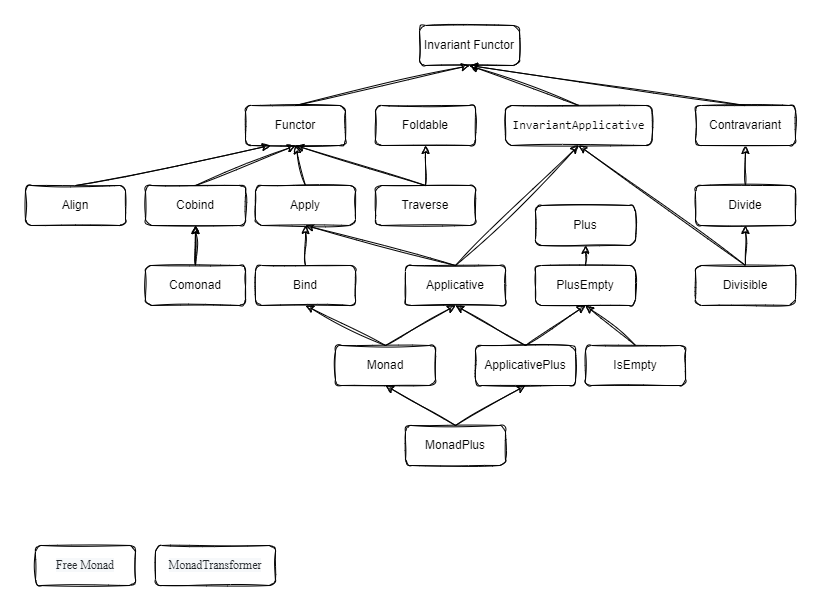
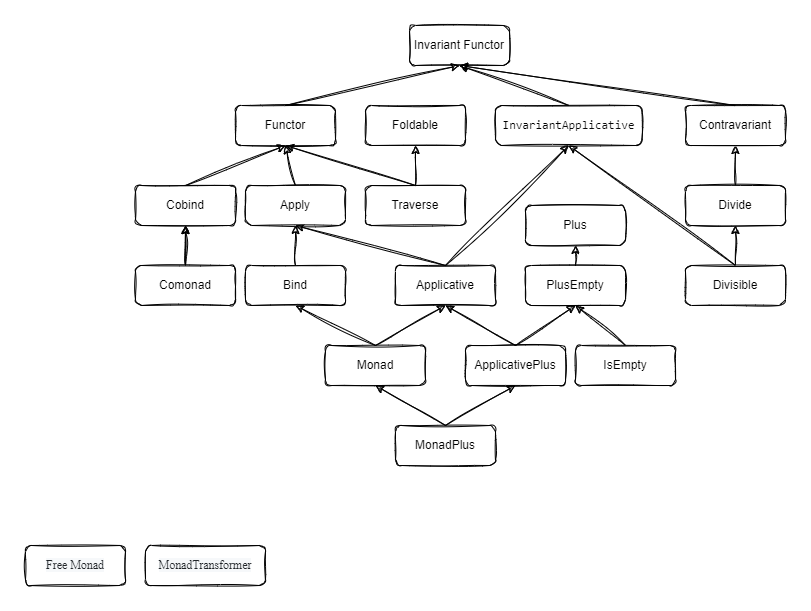
ScalaZ

diff --git a/SUMMARY.md b/SUMMARY.md
@@ -160,7 +160,6 @@
     - [Divisible](typeclass/monad/divisible.md)
     - [CoBind](typeclass/monad/co-bind.md)
     - [CoMonad](typeclass/monad/co-monads.md)
-    - [Align](typeclass/monad/align.md)
     - [Monad Transformer](typeclass/monad/monad-transformer.md)
     - [Free Monad](typeclass/monad/free-monads.md)
   - [Группа Arrow](typeclass/arrow.md)

diff --git a/typeclass/monad.md b/typeclass/monad.md
@@ -2,7 +2,7 @@
 
 ## Схема
 
-![monad](https://gitflic.ru/project/artemkorsakov/scalabook/blob/raw?file=images%2Fmonad.png&commit=75d4d80d7443a0d85bda42096a8d99eab1241161)
+![monad](https://gitflic.ru/project/artemkorsakov/scalabook/blob/raw?file=images%2Fmonad.png&commit=eb8f8c5c1a6d6132a9e142a4302a7c364e342511)
 
 ## Исходный код
 
